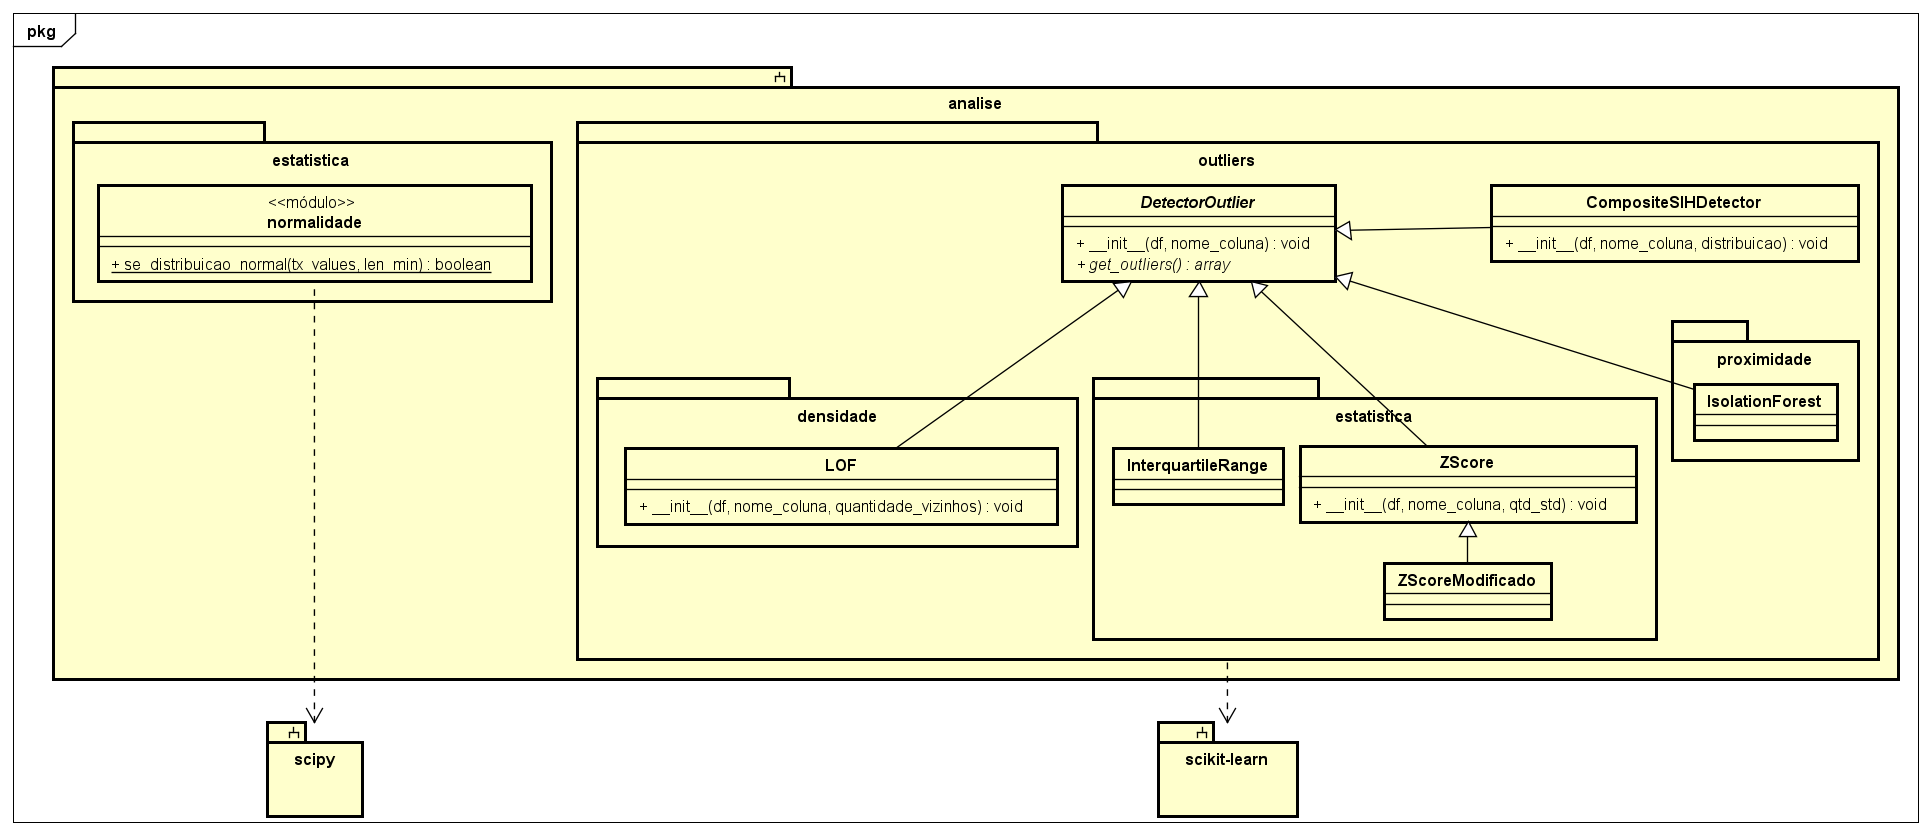
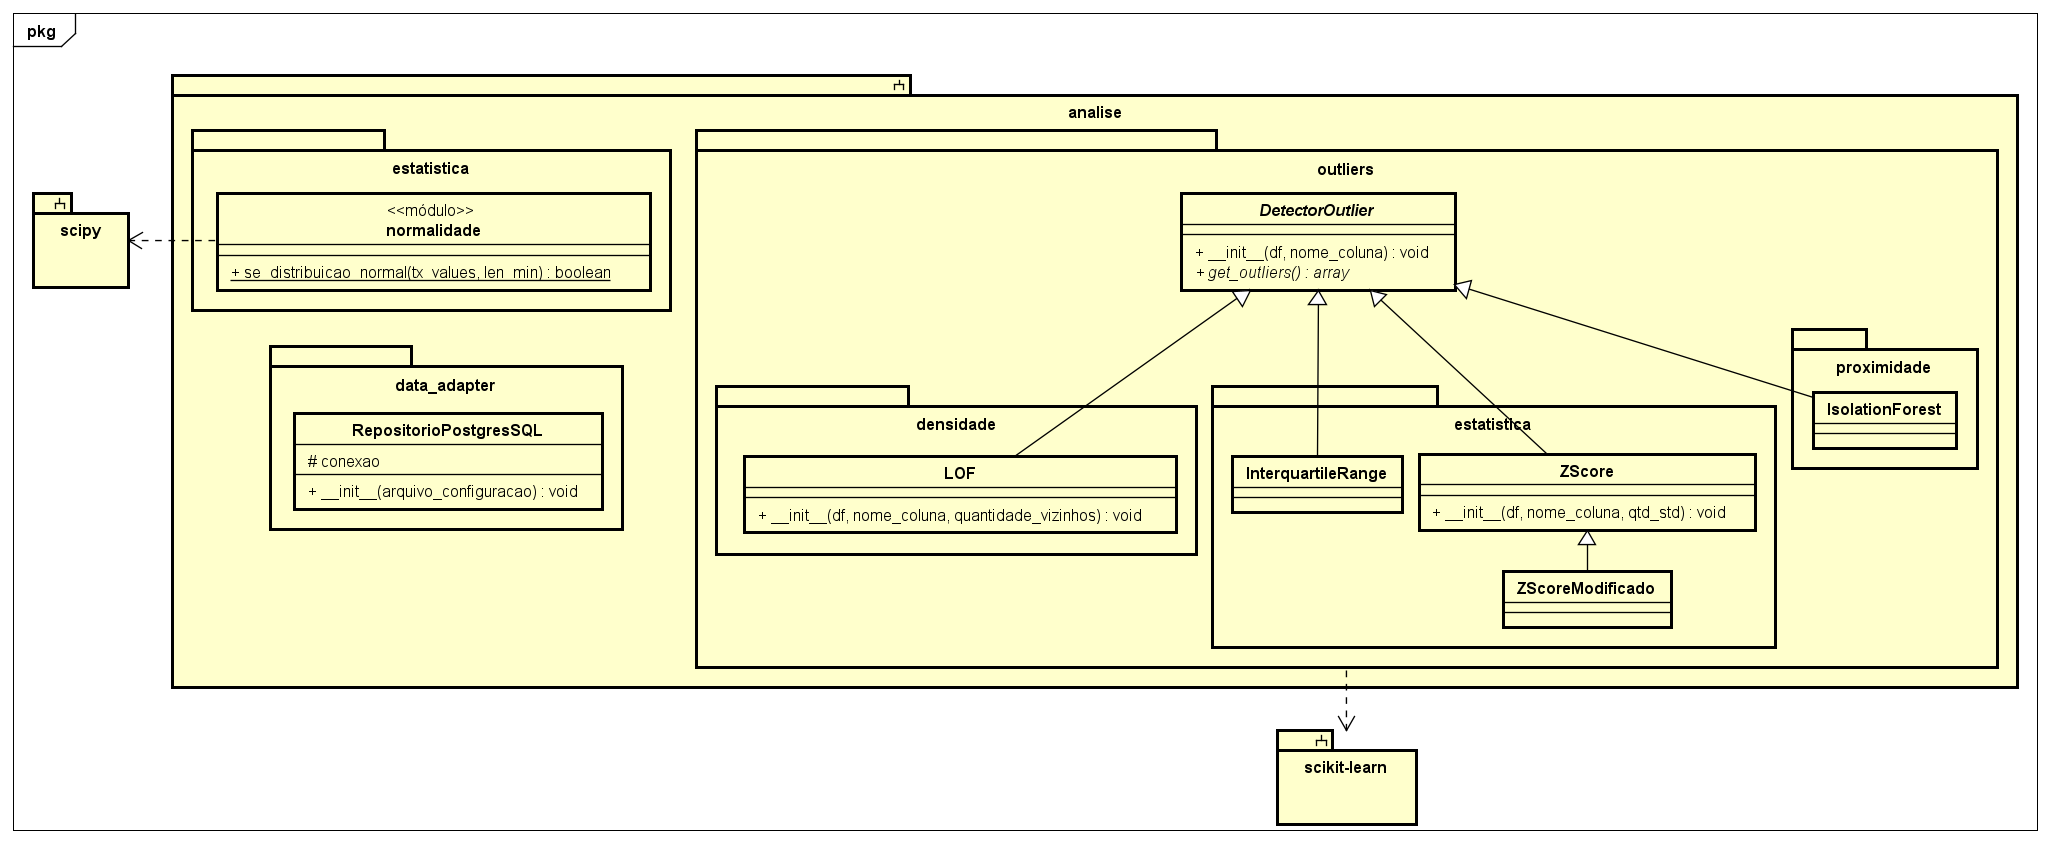
atualização documentação UML módulo de análise

diff --git a/pegasus/analise/data_adapter/repositorio_util.py b/pegasus/analise/data_adapter/repositorio_util.py
@@ -4,9 +4,9 @@ import yaml
 
 class RepositorioPostgresSQL:
     def __init__(self, arquivo_configuracao="config.yml"):
-        self.get_conexao_banco(arquivo_configuracao)
+        self.__get_conexao_banco(arquivo_configuracao)
 
-    def get_conexao_banco(self, arquivo_configuracao):
+    def __get_conexao_banco(self, arquivo_configuracao):
         with open(arquivo_configuracao, "r") as ymlfile:
             cfg = yaml.load(ymlfile)
         config_banco = cfg['postgres_sql']
